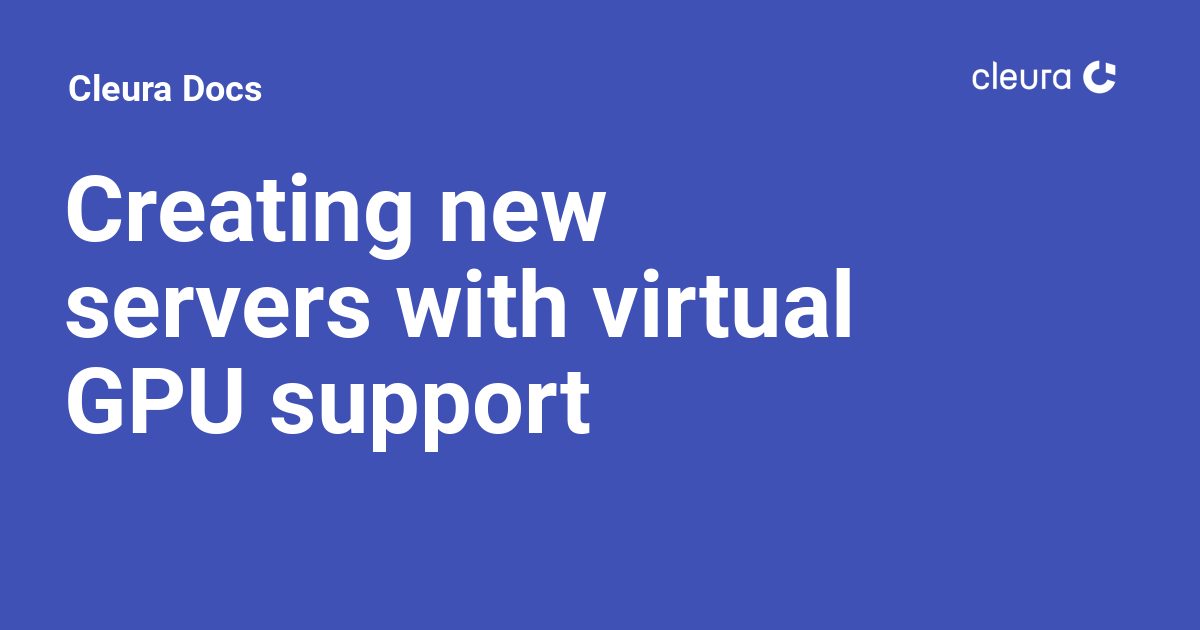
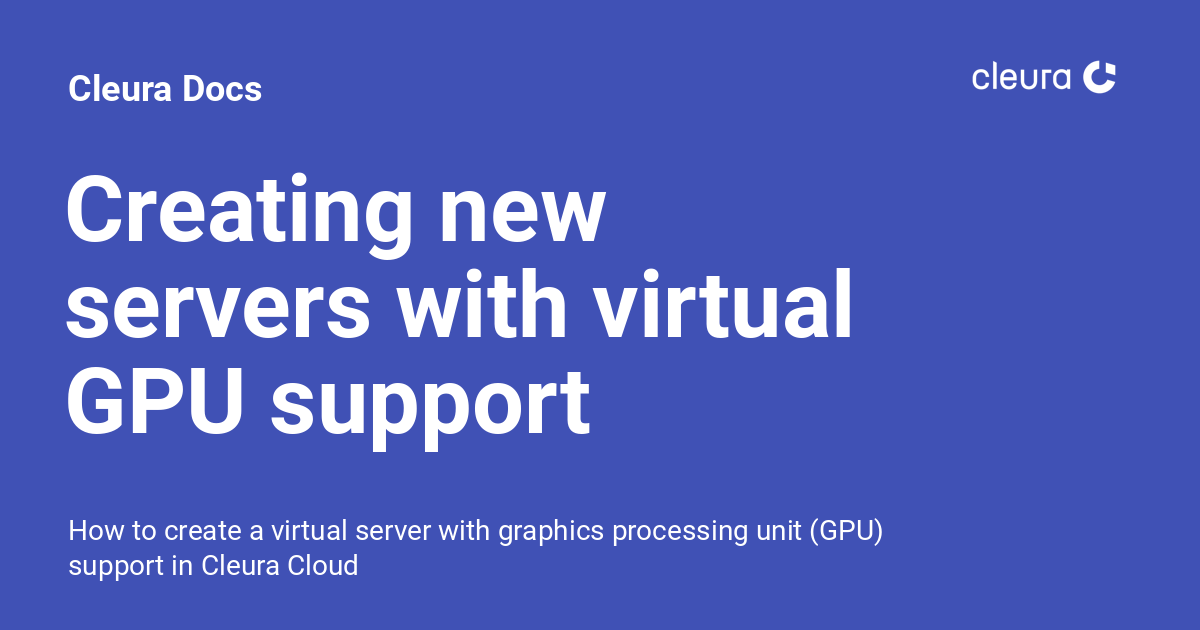
Deployed 247cce52 with MkDocs version: 1.5.3

Changed region(s): [[0.0617, 0.8143, 0.74, 0.9349]]

diff --git a/howto/openstack/nova/new-vgpu-server/index.html b/howto/openstack/nova/new-vgpu-server/index.html
@@ -6,6 +6,8 @@
       <meta charset="utf-8">
       <meta name="viewport" content="width=device-width,initial-scale=1">
       
+        <meta name="description" content="How to create a virtual server with graphics processing unit (GPU) support in Cleura Cloud">
+      
       
       
         <link rel="canonical" href="https://docs.cleura.cloud/howto/openstack/nova/new-vgpu-server/">
@@ -68,7 +70,7 @@
       
         <meta  property="og:title"  content="Creating new servers with virtual GPU support - Cleura Docs" >
       
-        <meta  property="og:description"  content="None" >
+        <meta  property="og:description"  content="How to create a virtual server with graphics processing unit (GPU) support in Cleura Cloud" >
       
         <meta  property="og:image"  content="https://docs.cleura.cloud/assets/images/social/howto/openstack/nova/new-vgpu-server.png" >
       
@@ -84,7 +86,7 @@
       
         <meta  name="twitter:title"  content="Creating new servers with virtual GPU support - Cleura Docs" >
       
-        <meta  name="twitter:description"  content="None" >
+        <meta  name="twitter:description"  content="How to create a virtual server with graphics processing unit (GPU) support in Cleura Cloud" >
       
         <meta  name="twitter:image"  content="https://docs.cleura.cloud/assets/images/social/howto/openstack/nova/new-vgpu-server.png" >
       
@@ -4178,7 +4180,7 @@ which is installed by default in the <code>Ubuntu 22.04 NVGRID x86_64</code> 
   <small>
     
       Last update:
-      <span class="git-revision-date-localized-plugin git-revision-date-localized-plugin-iso_date">2023-10-24</span>
+      <span class="git-revision-date-localized-plugin git-revision-date-localized-plugin-iso_date">2023-12-14</span>
       
         <br>
         Created:

diff --git a/howto/openstack/nova/move-server-between-regions/index.html b/howto/openstack/nova/move-server-between-regions/index.html
@@ -6,6 +6,8 @@
       <meta charset="utf-8">
       <meta name="viewport" content="width=device-width,initial-scale=1">
       
+        <meta name="description" content="How to transfer a virtual server between Cleura Cloud regions">
+      
       
       
         <link rel="canonical" href="https://docs.cleura.cloud/howto/openstack/nova/move-server-between-regions/">
@@ -68,7 +70,7 @@
       
         <meta  property="og:title"  content="Moving a server from one region to another - Cleura Docs" >
       
-        <meta  property="og:description"  content="None" >
+        <meta  property="og:description"  content="How to transfer a virtual server between Cleura Cloud regions" >
       
         <meta  property="og:image"  content="https://docs.cleura.cloud/assets/images/social/howto/openstack/nova/move-server-between-regions.png" >
       
@@ -84,7 +86,7 @@
       
         <meta  name="twitter:title"  content="Moving a server from one region to another - Cleura Docs" >
       
-        <meta  name="twitter:description"  content="None" >
+        <meta  name="twitter:description"  content="How to transfer a virtual server between Cleura Cloud regions" >
       
         <meta  name="twitter:image"  content="https://docs.cleura.cloud/assets/images/social/howto/openstack/nova/move-server-between-regions.png" >
       
@@ -4428,7 +4430,7 @@ the time to attach those volumes to the server.</p>
   <small>
     
       Last update:
-      <span class="git-revision-date-localized-plugin git-revision-date-localized-plugin-iso_date">2023-08-14</span>
+      <span class="git-revision-date-localized-plugin git-revision-date-localized-plugin-iso_date">2023-12-14</span>
       
         <br>
         Created:

diff --git a/howto/openstack/nova/resize-server/index.html b/howto/openstack/nova/resize-server/index.html
@@ -6,6 +6,8 @@
       <meta charset="utf-8">
       <meta name="viewport" content="width=device-width,initial-scale=1">
       
+        <meta name="description" content="How to adjust the number of CPU cores and amount of memory for a virtual server">
+      
       
       
         <link rel="canonical" href="https://docs.cleura.cloud/howto/openstack/nova/resize-server/">
@@ -68,7 +70,7 @@
       
         <meta  property="og:title"  content="Resizing a server - Cleura Docs" >
       
-        <meta  property="og:description"  content="None" >
+        <meta  property="og:description"  content="How to adjust the number of CPU cores and amount of memory for a virtual server" >
       
         <meta  property="og:image"  content="https://docs.cleura.cloud/assets/images/social/howto/openstack/nova/resize-server.png" >
       
@@ -84,7 +86,7 @@
       
         <meta  name="twitter:title"  content="Resizing a server - Cleura Docs" >
       
-        <meta  name="twitter:description"  content="None" >
+        <meta  name="twitter:description"  content="How to adjust the number of CPU cores and amount of memory for a virtual server" >
       
         <meta  name="twitter:image"  content="https://docs.cleura.cloud/assets/images/social/howto/openstack/nova/resize-server.png" >
       
@@ -4201,7 +4203,7 @@ the resize with the following command:</p>
   <small>
     
       Last update:
-      <span class="git-revision-date-localized-plugin git-revision-date-localized-plugin-iso_date">2023-08-14</span>
+      <span class="git-revision-date-localized-plugin git-revision-date-localized-plugin-iso_date">2023-12-14</span>
       
         <br>
         Created:

diff --git a/howto/openstack/nova/config-drive/index.html b/howto/openstack/nova/config-drive/index.html
@@ -6,6 +6,8 @@
       <meta charset="utf-8">
       <meta name="viewport" content="width=device-width,initial-scale=1">
       
+        <meta name="description" content="How to launch a virtual server with config drive support">
+      
       
       
         <link rel="canonical" href="https://docs.cleura.cloud/howto/openstack/nova/config-drive/">
@@ -68,7 +70,7 @@
       
         <meta  property="og:title"  content="Launching a server with a configuration drive - Cleura Docs" >
       
-        <meta  property="og:description"  content="None" >
+        <meta  property="og:description"  content="How to launch a virtual server with config drive support" >
       
         <meta  property="og:image"  content="https://docs.cleura.cloud/assets/images/social/howto/openstack/nova/config-drive.png" >
       
@@ -84,7 +86,7 @@
       
         <meta  name="twitter:title"  content="Launching a server with a configuration drive - Cleura Docs" >
       
-        <meta  name="twitter:description"  content="None" >
+        <meta  name="twitter:description"  content="How to launch a virtual server with config drive support" >
       
         <meta  name="twitter:image"  content="https://docs.cleura.cloud/assets/images/social/howto/openstack/nova/config-drive.png" >
       
@@ -4071,7 +4073,7 @@ by monitoring the server console log:</p>
   <small>
     
       Last update:
-      <span class="git-revision-date-localized-plugin git-revision-date-localized-plugin-iso_date">2022-11-29</span>
+      <span class="git-revision-date-localized-plugin git-revision-date-localized-plugin-iso_date">2023-12-14</span>
       
         <br>
         Created:

diff --git a/howto/openstack/nova/new-server/index.html b/howto/openstack/nova/new-server/index.html
@@ -6,6 +6,8 @@
       <meta charset="utf-8">
       <meta name="viewport" content="width=device-width,initial-scale=1">
       
+        <meta name="description" content="How to create a new virtual server in Cleura Cloud">
+      
       
       
         <link rel="canonical" href="https://docs.cleura.cloud/howto/openstack/nova/new-server/">
@@ -68,7 +70,7 @@
       
         <meta  property="og:title"  content="Creating new servers - Cleura Docs" >
       
-        <meta  property="og:description"  content="None" >
+        <meta  property="og:description"  content="How to create a new virtual server in Cleura Cloud" >
       
         <meta  property="og:image"  content="https://docs.cleura.cloud/assets/images/social/howto/openstack/nova/new-server.png" >
       
@@ -84,7 +86,7 @@
       
         <meta  name="twitter:title"  content="Creating new servers - Cleura Docs" >
       
-        <meta  name="twitter:description"  content="None" >
+        <meta  name="twitter:description"  content="How to create a new virtual server in Cleura Cloud" >
       
         <meta  name="twitter:image"  content="https://docs.cleura.cloud/assets/images/social/howto/openstack/nova/new-server.png" >
       
@@ -4354,7 +4356,7 @@ securely connect to your server via SSH.</p>
   <small>
     
       Last update:
-      <span class="git-revision-date-localized-plugin git-revision-date-localized-plugin-iso_date">2023-12-13</span>
+      <span class="git-revision-date-localized-plugin git-revision-date-localized-plugin-iso_date">2023-12-14</span>
       
         <br>
         Created:

diff --git a/howto/openstack/nova/rescue-server/index.html b/howto/openstack/nova/rescue-server/index.html
@@ -6,6 +6,8 @@
       <meta charset="utf-8">
       <meta name="viewport" content="width=device-width,initial-scale=1">
       
+        <meta name="description" content="How to access a virtual server in rescue mode">
+      
       
       
         <link rel="canonical" href="https://docs.cleura.cloud/howto/openstack/nova/rescue-server/">
@@ -68,7 +70,7 @@
       
         <meta  property="og:title"  content="Rescuing a server - Cleura Docs" >
       
-        <meta  property="og:description"  content="None" >
+        <meta  property="og:description"  content="How to access a virtual server in rescue mode" >
       
         <meta  property="og:image"  content="https://docs.cleura.cloud/assets/images/social/howto/openstack/nova/rescue-server.png" >
       
@@ -84,7 +86,7 @@
       
         <meta  name="twitter:title"  content="Rescuing a server - Cleura Docs" >
       
-        <meta  name="twitter:description"  content="None" >
+        <meta  name="twitter:description"  content="How to access a virtual server in rescue mode" >
       
         <meta  name="twitter:image"  content="https://docs.cleura.cloud/assets/images/social/howto/openstack/nova/rescue-server.png" >
       
@@ -4113,7 +4115,7 @@ Rescue.</p>
   <small>
     
       Last update:
-      <span class="git-revision-date-localized-plugin git-revision-date-localized-plugin-iso_date">2023-04-13</span>
+      <span class="git-revision-date-localized-plugin git-revision-date-localized-plugin-iso_date">2023-12-14</span>
       
         <br>
         Created:
